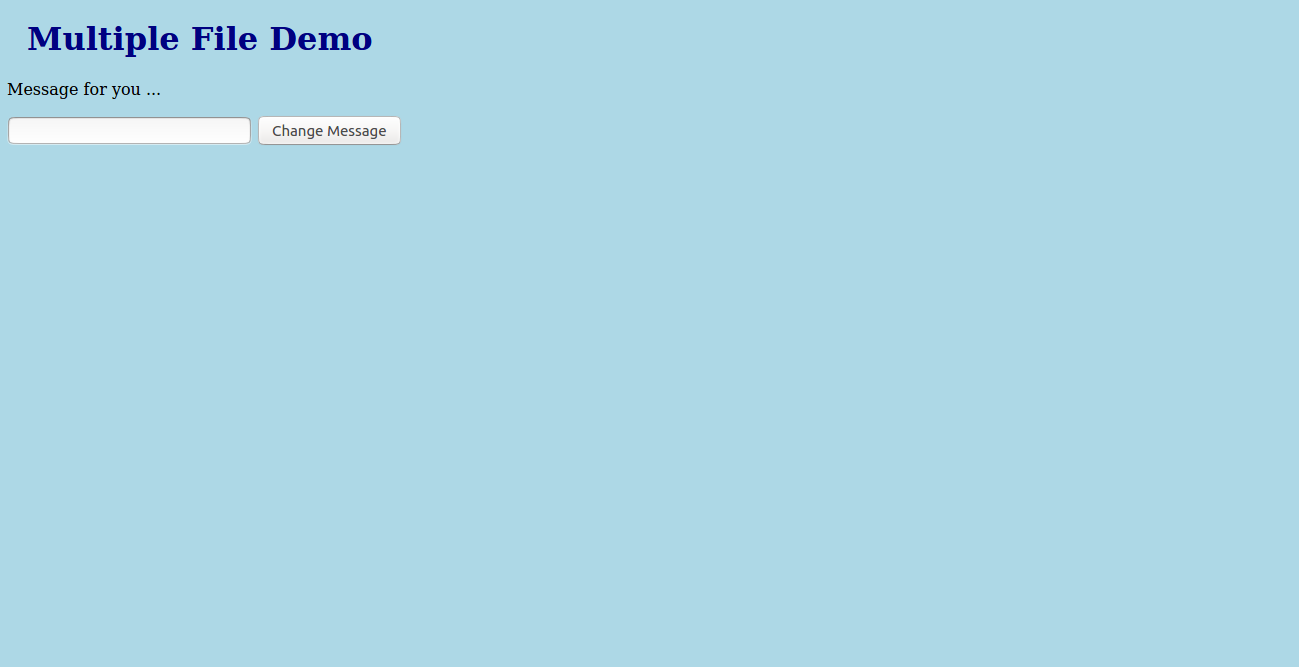
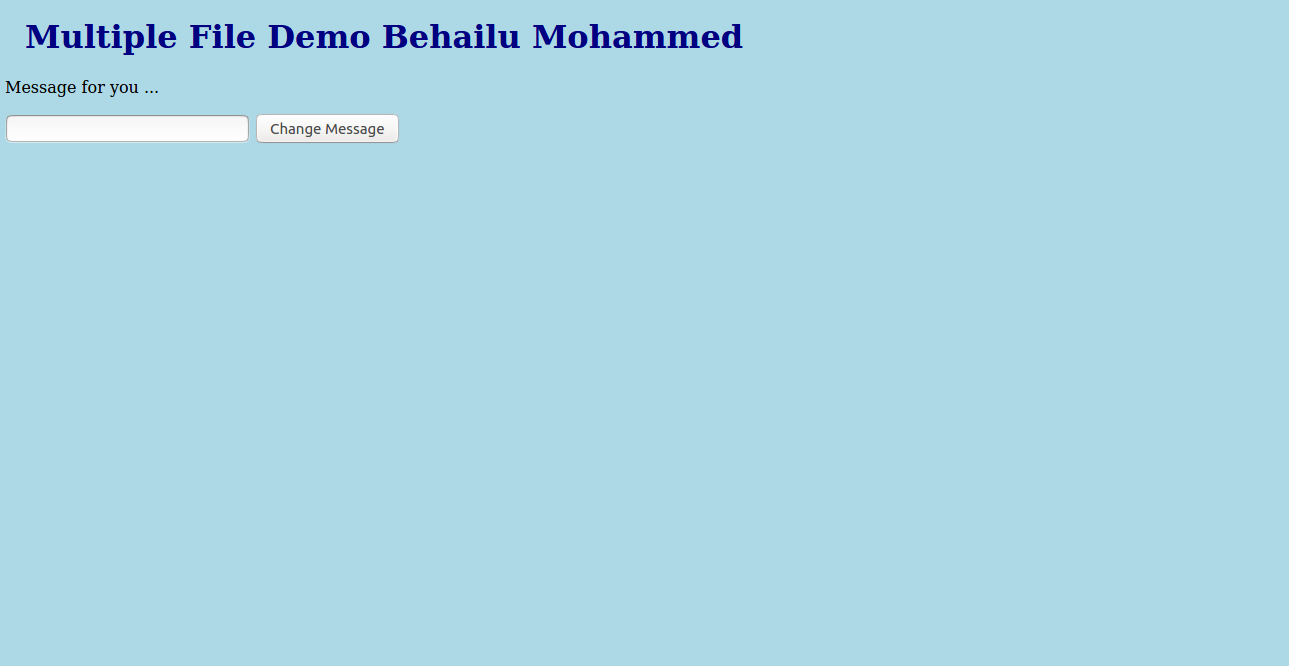
Behailu IT115-Final Assignment

Changed region(s): [[0.0, 0.03, 0.5896, 0.0901], [0.0, 0.1201, 0.3103, 0.2402]]

diff --git a/test.html b/test.html
@@ -15,7 +15,7 @@
 </head>
 
 <body>
-<h1>Multiple File Demo</h1>
+<h1>Multiple File Demo Behailu Mohammed</h1>
 <p id="msg">Message for you ...</p>
 
 <form name="theForm">
